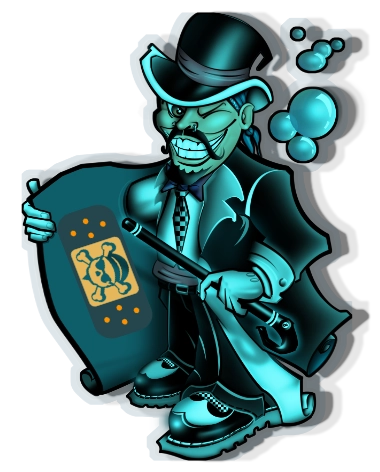
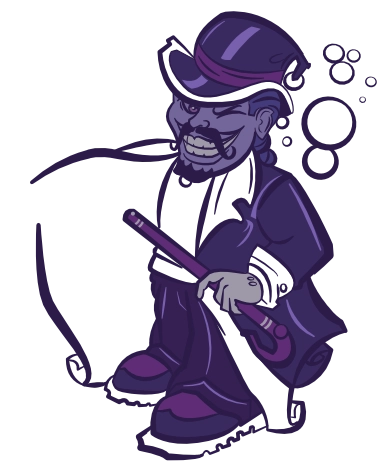
Change the color theme to purple.

diff --git a/pages/page2.html b/pages/page2.html
@@ -254,29 +254,6 @@
           </ul>
         </div>
         <div class="foot-space2">
-          <h4>Our Patnas</h4>
-          <ul>
-            <li><a href="/">page 1</a></li>
-            <li><a href="#">page 2</a></li>
-            <li><a href="#">page 3</a></li>
-            <li><a href="#">page 4</a></li>
-          </ul>
-        </div>
-        <div class="foot-space3 footer-card">
-          <h5>Subscribe to our newsletter</h5>
-          <form>
-            <input
-              type="email"
-              name="shit"
-              id="email"
-              placeholder="Enter your fucked up email"
-            />
-            <button class="button button-primary button-belt" type="submit">
-              Beerscribe
-            </button>
-          </form>
-        </div>
-        <div>
           <a href="#" target="_blank" rel="noopener noreferrer"
             ><img
               src="/youtube_icon64.webp"
@@ -308,8 +285,22 @@
               class="social-icons inflate-anim"
           /></a>
         </div>
-        <div class="foot-space5">
-          <img src="/betogalvez.svg" alt="Cartoon face of a dude" />
+        <div class="foot-space3 footer-card">
+          <h5>Subscribe to our newsletter</h5>
+          <form>
+            <input
+              type="email"
+              name="shit"
+              id="email"
+              placeholder="Enter your fucked up email"
+            />
+            <button class="button button-primary button-belt" type="submit">
+              Beerscribe
+            </button>
+          </form>
+        </div>
+
+        <div class="foot-space4">
           <p class="util-text-light">
             <span class="siteTitleJS"></span> <span class="thisYear"></span> | Est.
             November 2023 By <span class="authorToken"></span> | Powered by

diff --git a/style-sheets/layouts/a-grid-layout.css b/style-sheets/layouts/a-grid-layout.css
@@ -34,7 +34,7 @@
   animation-timeline: view();
   animation-range-start: 150vh;
   animation-range-end: 180vh;
-  /* background-color: var(--containers-color); */
+  background-color: var(--containers-color);
   display: grid;
   grid-template-columns: repeat(3, 1fr);
   /* Try subgrid or auto */
@@ -59,13 +59,13 @@
 }
 
 .navbar-section {
-  background-color: var(--containers-color);
+  /* background-color: var(--containers-color); */
   grid-area: navbarArea;
 }
 
 .hero-section {
   grid-area: heroArea;
-  background: url('/bad_bandages_hero.webp') no-repeat;
+  background: url('/bad_bandages2_hero.webp') no-repeat;
   background-attachment: fixed;
   background-size: contain;
   background-position: center;
@@ -101,14 +101,14 @@
 
 .footer-section {
   grid-area: footerArea;
-  background-color: var(--containers-color);
+  background-color: var(--swatch4-color);
   display: grid;
-  grid-template-columns: repeat(5, 1fr);
+  grid-template-columns: repeat(4, 1fr);
   grid-template-rows: auto;
   /* gap: 0px var(--10px); */
   place-items: center stretch;
   grid-auto-flow: row;
-  grid-template-areas: 'footSpaceArea1 footSpaceArea2 footSpaceArea3 footSpaceArea4 footSpaceArea5';
+  grid-template-areas: 'footSpaceArea1 footSpaceArea2 footSpaceArea3 footSpaceArea4';
 }
 .foot-space1 {
   grid-area: footSpaceArea1;
@@ -122,9 +122,6 @@
 }
 .foot-space4 {
   grid-area: footSpaceArea4;
-}
-.foot-space5 {
-  grid-area: footSpaceArea5;
 }
 .footer-section input[type='email'] {
   width: 100%;

diff --git a/global-styles.css b/global-styles.css
@@ -1,23 +1,23 @@
 :root {
   /* COLOR VARIABLES */
 
-  --swatch1-color: rgb(37, 156, 156);
-  --swatch2-color: rgb(45, 81, 110);
-  --swatch3-color: rgb(58, 103, 109);
-  --swatch4-color: rgb(19, 60, 80);
-  --accent-color: rgb(231, 172, 104);
-  --black-color: rgb(9, 33, 45);
-  --white-color: rgb(214, 223, 233);
+  --swatch1-color: hsl(259, 57%, 77%);
+  --swatch2-color: hsl(259, 29%, 57%);
+  --swatch3-color: hsl(258, 29%, 44%);
+  --swatch4-color: hsl(260, 33%, 25%);
+  --accent-color: hsl(32, 73%, 66%);
+  --black-color: hsl(259, 35%, 19%);
+  --white-color: hsl(269, 43%, 85%);
   --highlight-color: var(--accent-color);
-  --important-color: rgb(208, 116, 79);
-  --bandage-color: rgb(192, 159, 128);
+  --important-color: hsl(17, 58%, 56%);
+  --bandage-color: hsl(29, 34%, 63%);
 
   /* /////////////////////////////////////////////////////////// */
 
   --body-color: var(--black-color);
   --containers-color: var(--swatch4-color);
   --headings-light-color: var(--white-color);
-  --headings-dark-color: var(--swatch1-color);
+  --headings-dark-color: var(--swatch3-color);
   --light-text-color: var(--white-color);
   --dark-text-color: var(--black-color);
   --links-light-color: var(--white-color);
@@ -122,11 +122,7 @@ video {
 }
 
 h1,
-h2 {
-  color: var(--headings-dark-color);
-  /* text-wrap: balance; */
-}
-
+h2,
 h3,
 h4,
 h5,

diff --git a/index.html b/index.html
@@ -36,20 +36,22 @@
       <div class="navbar-section">
         <!-- If you going to change the container to another size, you need to change in the navbar
         section CSS class as well to take effect. -->
-        <div class="util-container-large main-menu util-margin-inline">
+        <div class="util-container-large util-margin-inline">
           <!-- Menu List -->
 
-          <nav>
-            <a class="util-active" href="/">Home</a>
+          <div class="main-menu">
+            <nav>
+              <a class="util-active" href="/">Home</a>
 
-            <a href="/pages/page2.html">Page 2</a>
+              <a href="/pages/page2.html">Page 2</a>
 
-            <a href="#">Page 3</a>
+              <a href="#">Page 3</a>
 
-            <a href="#"
-              ><img class="mini-icons" src="/avatar.svg" alt="avatar icon" /> Log In</a
-            >
-          </nav>
+              <a href="#"
+                ><img class="mini-icons" src="/avatar.svg" alt="avatar icon" /> Log In</a
+              >
+            </nav>
+          </div>
 
           <!-- Hamburger Button -->
           <button class="hamburger-icon" type="button">

diff --git a/style-sheets/layouts/a-no-grid-layout.css b/style-sheets/layouts/a-no-grid-layout.css
@@ -36,7 +36,7 @@
 }
 
 .hero-section {
-  background: url('/bad_bandages_hero.webp') no-repeat;
+  background: url('/bad_bandages2_hero.webp') no-repeat;
   background-attachment: fixed;
   background-size: contain;
   background-position: bottom;

diff --git a/style-sheets/y-no-grid-queries.css b/style-sheets/y-no-grid-queries.css
@@ -73,8 +73,8 @@ Divide # of pixes by 16px:
   }
 }
 
-/* 500px MEDIA QUERIES */
+/* 440px MEDIA QUERIES */
 
-/* @media (max-width: 31.25rem) {
+/* @media (max-width: 440px) {
 
 } */

diff --git a/global-scripts.js b/global-scripts.js
@@ -1,7 +1,7 @@
 //
 //  ---
 
-import logoUrl from '/bad_bandage.png'
+import logoUrl from '/bandaid-logo.webp'
 
 //  ---
 //
